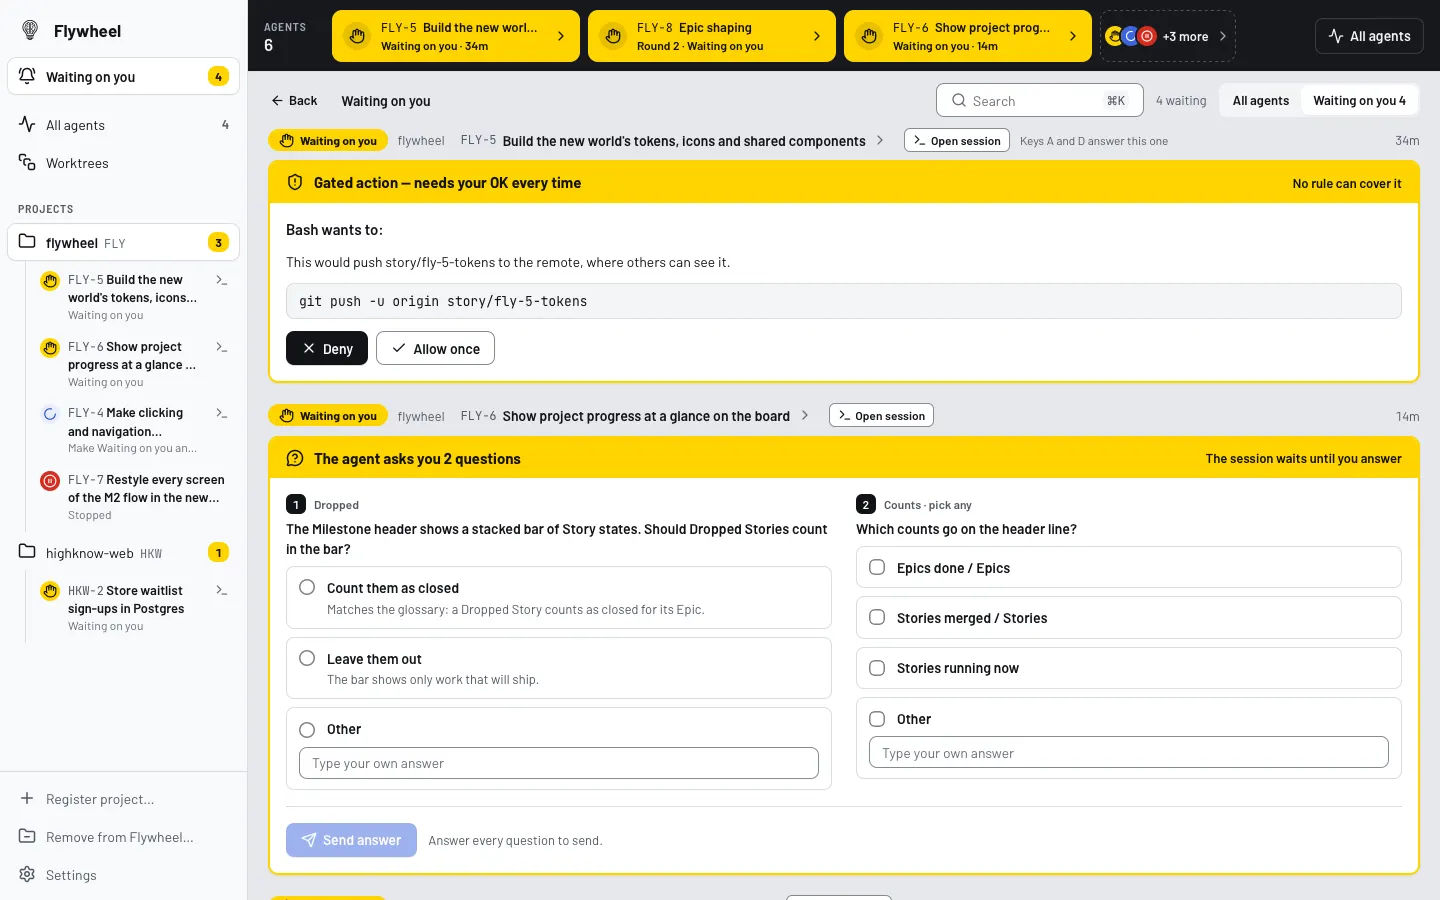
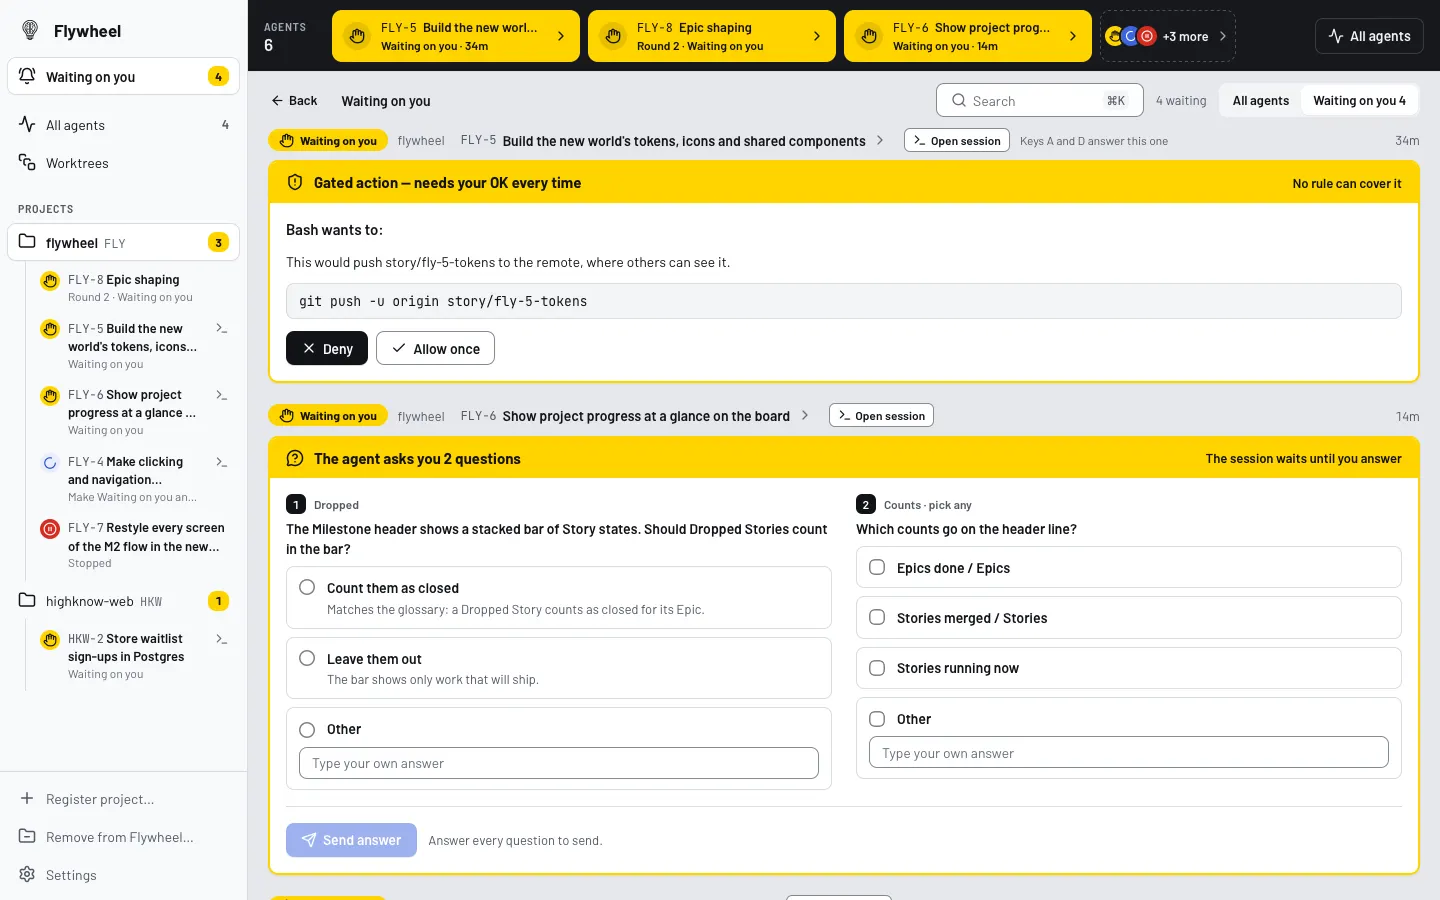
fix: the finish review's findings: a folded lit lamp opens Waiting on you, a waiting Round has its row under its project, and the shaping view's Epic card names the same attention as the board's

Changed region(s): [[0.0, 0.28, 0.1562, 0.7778]]

diff --git a/packages/desktop/src/projects/ProjectRail.tsx b/packages/desktop/src/projects/ProjectRail.tsx
@@ -30,7 +30,7 @@
 import { useState } from "react";
 import { useQuery, useQueryClient } from "@tanstack/react-query";
 import { Activity, BellRing, Folder, FolderMinus, Plus, Settings, SquareStack, Terminal, TriangleAlert } from "lucide-react";
-import { projectHide, storyGet, type FleetRowDto, type StoryDto } from "../adapters/tauri";
+import { projectHide, storyGet, type FleetRowDto, type StoryDto, type WaitingRoundDto } from "../adapters/tauri";
 import glyphUrl from "../assets/logo-glyph.svg";
 import type { Project } from "../board/useBoardQuery";
 import { useRecoverySummary } from "../board/useBoardQuery";
@@ -148,6 +148,7 @@ function RunningSessions({
   projectName,
   sessions,
   stopped,
+  rounds,
   currentStory,
 }: {
   projectId: string;
@@ -155,10 +156,14 @@ function RunningSessions({
   sessions: FleetRowDto[];
   /** This project's Stopped Stories (a Running Story with no live session), each by its newest session. */
   stopped: FleetRowDto[];
+  /** Issue #124: this project's shaping Rounds a live session is held on, so the badge and the rows agree. */
+  rounds: WaitingRoundDto[];
   currentStory: StoryDto | null;
 }) {
   const setActiveSessionId = useUiStore((state) => state.setActiveSessionId);
   const openStory = useUiStore((state) => state.openStory);
+  const openEpic = useUiStore((state) => state.openEpic);
+  const placeEpicId = useUiStore((state) => (state.activeSessionId ? null : state.currentEpicId));
   const activeSessionId = useUiStore((state) => state.activeSessionId);
   const placeStoryId = usePlaceStoryId();
   const extraStory =
@@ -168,9 +173,26 @@ function RunningSessions({
     !stopped.some((s) => s.storyId === currentStory.id)
       ? currentStory
       : null;
-  if (sessions.length === 0 && stopped.length === 0 && !extraStory) return null;
+  if (sessions.length === 0 && stopped.length === 0 && rounds.length === 0 && !extraStory) return null;
   return (
     <SidebarMenuSub role="list" aria-label={`${projectName} running sessions`} className="mx-0 ml-4 mr-0 gap-0.5 px-1.5 py-1">
+      {/* A shaping Round a live session is held on: Waiting on you, so it leads, and it opens its Epic. */}
+      {rounds.map((round) => {
+        const subject = `${round.epicKey} ${round.epicTitle}`.trim();
+        return (
+          <SidebarMenuSubItem key={round.roundId} className="flex">
+            <StoryRowButton
+              story={{ id: round.epicId, key: round.epicKey, title: round.epicTitle }}
+              detail={`Round ${round.roundNumber} · Waiting on you`}
+              tile={<StateBadge state="waiting_on_you" hideLabel className="size-5 justify-center p-0 [&>svg]:size-3.5" />}
+              here={round.epicId === placeEpicId}
+              ariaLabel={`Open Epic ${subject}, Round ${round.roundNumber} Waiting on you`}
+              title={`${subject}: Round ${round.roundNumber} waiting on you`}
+              onClick={() => openEpic(round.projectId, round.epicId)}
+            />
+          </SidebarMenuSubItem>
+        );
+      })}
       {extraStory && (
         <SidebarMenuSubItem className="flex">
           <StoryRowButton
@@ -510,6 +532,7 @@ export function ProjectRail({ projects, currentProjectId, onSelect }: ProjectRai
                       projectName={project.name}
                       sessions={liveSessions.filter((session) => session.projectId === project.id)}
                       stopped={stoppedRows.filter((row) => row.projectId === project.id)}
+                      rounds={waitingRounds.filter((round) => round.projectId === project.id)}
                       currentStory={currentStory}
                     />
                   </SidebarMenuItem>

diff --git a/packages/desktop/src/shaping/EpicShapingView.tsx b/packages/desktop/src/shaping/EpicShapingView.tsx
@@ -59,6 +59,14 @@ export function EpicShapingView({ projectId, projectName, epicId, onBack }: Epic
   const data = shapingQuery.data;
   const epic = data?.epic;
   const openStage = data?.stages.find((s) => s.state === "open") ?? data?.stages[data.stages.length - 1];
+  // Attention in place of the state word, as the board's Epic card shows it (issue #124): the core's
+  // `waitingOnYou`, or an open Round with no live shaping session.
+  const rounds = data?.rounds ?? [];
+  const attention = rounds.some((r) => r.waitingOnYou)
+    ? "waiting_on_you"
+    : rounds.some((r) => r.state === "open") && sessionQuery.isSuccess && !sessionQuery.data
+      ? "round_waiting"
+      : null;
 
   return (
     <div className="flex h-full min-h-0 flex-col">
@@ -89,7 +97,13 @@ export function EpicShapingView({ projectId, projectName, epicId, onBack }: Epic
               className="xl:col-start-2 xl:row-start-1"
             />
             <div className="min-w-0 self-stretch xl:col-start-1 xl:row-span-2 xl:row-start-1">
-              <EpicCard epic={epic} proposals={data.proposals ?? []} stage={openStage ? { kind: openStage.kind, rank: openStage.rank } : null} queryKey={queryKey} />
+              <EpicCard
+                epic={epic}
+                attention={attention}
+                proposals={data.proposals ?? []}
+                stage={openStage ? { kind: openStage.kind, rank: openStage.rank } : null}
+                queryKey={queryKey}
+              />
             </div>
             <RoundDock
               rounds={data.rounds}
@@ -114,11 +128,13 @@ function stageCount(kind: string) {
 
 function EpicCard({
   epic,
+  attention,
   proposals,
   stage,
   queryKey,
 }: {
   epic: EpicDto;
+  attention: string | null;
   /** The Epic's pending and rejected Proposals (issue #125), drawn on the field each would rewrite. */
   proposals: ProposalDto[];
   stage: { kind: string; rank: number } | null;
@@ -141,7 +157,7 @@ function EpicCard({
         <div className="flex min-w-0 items-center gap-2">
           <Layers aria-hidden="true" size={18} className="shrink-0 text-muted-foreground" />
           <span className="font-mono text-small text-muted-foreground">{epic.key}</span>
-          <StateBadge state={epic.state} className="h-5.5 text-meta" />
+          <StateBadge state={attention ?? epic.state} className="h-5.5 text-meta" />
         </div>
         <h1 id={headingId} className="m-0 text-title font-semibold break-words">
           {epic.title}

diff --git a/packages/desktop/src/projects/__tests__/project-rail.test.tsx b/packages/desktop/src/projects/__tests__/project-rail.test.tsx
@@ -186,7 +186,9 @@ describe("ProjectRail's Waiting on you row (#57, docs/mvp-spec.md §4.1)", () =>
 
   it("counts a shaping Round a live session waits on beside the requests, in its project too (issue #124)", async () => {
     fleetBlockedQueueMock.mockResolvedValue([{ requestId: "r1", projectId: "proj-1" }]);
-    fleetWaitingRoundsMock.mockResolvedValue([{ roundId: "round-1", projectId: "proj-2" }]);
+    fleetWaitingRoundsMock.mockResolvedValue([
+      { roundId: "round-1", roundNumber: 2, projectId: "proj-2", epicId: "e-8", epicKey: "OTH-8", epicTitle: "Epic shaping" },
+    ]);
     renderWithClient(
       <ProjectRail
         projects={[project({}), project({ id: "proj-2", name: "Other", keyPrefix: "OTH" })]}
@@ -197,6 +199,9 @@ describe("ProjectRail's Waiting on you row (#57, docs/mvp-spec.md §4.1)", () =>
     const row = await screen.findByRole("button", { name: "Open Waiting on you, 2 waiting" });
     expect(row.querySelector('[data-count="waiting"]')).toHaveTextContent("2");
     expect(await screen.findByTitle("1 waiting on you in Other")).toHaveTextContent("1");
+    // The badge and the rows under the project agree: the Round has its row, which opens its Epic.
+    fireEvent.click(await screen.findByRole("button", { name: "Open Epic OTH-8 Epic shaping, Round 2 Waiting on you" }));
+    expect(useUiStore.getState().currentEpicId).toBe("e-8");
   });
 
   it("shows no figure at all when nothing is waiting", async () => {

diff --git a/packages/desktop/src/shell/AndonStrip.tsx b/packages/desktop/src/shell/AndonStrip.tsx
@@ -295,8 +295,12 @@ export function AndonStrip() {
               <div role="listitem" className="shrink-0">
                 <button
                   type="button"
-                  aria-label={`${hidden} more: ${hiddenTones.map((tone) => TONE_WORD[tone]).join(", ")}. Open All agents`}
-                  onClick={() => setFleetSurface({ view: "fleet" })}
+                  // A folded yellow lamp (a Story session's or a shaping Round's) is found in Waiting on you, which
+                  // lists both; All agents lists no shaping Round.
+                  aria-label={`${hidden} more: ${hiddenTones.map((tone) => TONE_WORD[tone]).join(", ")}. Open ${
+                    hiddenTones.includes("waiting") ? "Waiting on you" : "All agents"
+                  }`}
+                  onClick={() => setFleetSurface({ view: hiddenTones.includes("waiting") ? "queue" : "fleet" })}
                   style={{ width: MORE_WIDTH }}
                   className="flex h-13 items-center justify-center gap-1.5 rounded-lg border border-dashed whitespace-nowrap border-white/25 text-small font-semibold text-strip-foreground transition-colors duration-(--duration-state) ease-(--ease) hover:bg-white/10 focus-visible:outline-strip-foreground"
                 >

diff --git a/packages/desktop/src/shell/__tests__/andon-strip.test.tsx b/packages/desktop/src/shell/__tests__/andon-strip.test.tsx
@@ -155,6 +155,18 @@ describe("AndonStrip", () => {
     expect(useUiStore.getState().activeSessionId).toBeNull();
   });
 
+  it("folds a waiting lamp into +n more, which then opens Waiting on you (issue #124)", async () => {
+    fleetWaitingRounds.mockResolvedValue([ROUND]);
+    const many = Array.from({ length: 6 }, (_, i) =>
+      row({ sessionId: `r-${i}`, storyId: `s-${i}`, storyKey: `FLY-${20 + i}`, storyTitle: `Running ${i}` }),
+    );
+    fleetList.mockResolvedValue({ rows: many, totalRows: many.length, visibleCostUsd: null });
+    renderStrip();
+    // jsdom has no layout: every lamp is shown, so check the rule on the pure order instead.
+    await screen.findByRole("button", { name: /Open Epic FLY-8/ });
+    expect(stripLamps(many, [ROUND])[0].kind).toBe("round");
+  });
+
   it("keeps its height and says so when no agent is running", async () => {
     fleetList.mockResolvedValue({ rows: [DONE], totalRows: 1, visibleCostUsd: null });
     renderStrip();

diff --git a/packages/desktop/src/shaping/__tests__/round-dock.test.tsx b/packages/desktop/src/shaping/__tests__/round-dock.test.tsx
@@ -238,6 +238,8 @@ describe("a Round whose session died (issue #124)", () => {
     expect(within(dock).queryByText("Waiting on you")).toBeNull();
     expect(within(dock).getByText("1 of 3 answered")).toBeTruthy();
     expect(within(await card(1)).getByText("Only the developer")).toBeTruthy();
+    // The Epic card names the same state as the board's (issue #124).
+    expect(await screen.findByText("Shaping Round waiting")).toBeTruthy();
 
     fireEvent.click(within(await card(2)).getByRole("button", { name: "Accept the recommended answer to question 2" }));
     await waitFor(() => expect(roundAccept).toHaveBeenCalledWith("q2"));

diff --git a/packages/desktop/src/test/critique/m2-flow.critique.browser.test.tsx b/packages/desktop/src/test/critique/m2-flow.critique.browser.test.tsx
@@ -153,7 +153,7 @@ describe.runIf(Boolean(SCHEME))("M2 flow screens", () => {
 
   it("13 Waiting on you queue", async () => {
     await boardReady();
-    await click(/Open Waiting on you/);
+    await click(/^Open Waiting on you/);
     await settle(900);
     await shot("13-waiting-on-you-queue");
   });

diff --git a/DESIGN.md b/DESIGN.md
@@ -366,7 +366,7 @@ The live agent on a Story (`board/StoryView.tsx`), under its title card while a 
 The project's Roadmap at the top of the board (`board/RoadmapStrip.tsx`, #131): one card headed "Roadmap" with the Milestone count and an outline "+ Milestone", then one 36px row per Milestone in Roadmap order. A row is a move handle (`grip-vertical`, subtle ink), the name at row size (semibold; regular in secondary ink once Done or Dropped), the state pill at meta size, the Exit test on one line in secondary ink ("Exit test not written yet" in meta ink), a `flag` and "Current" on the Current Milestone, and the trailing chevron. The columns are fixed so every row lines up. Clicking a row picks that Milestone for the header and roster below; the picked row takes the running tint across its whole width and a running-ink chevron. A Done or Dropped Milestone has no handle and does not drag: it keeps its place. A row drags natively; while it does, it fades to half and a 2px ring-coloured line marks where it lands (above the target when moving up, below when moving down). The keyboard moves it with the arrow keys on its handle or Alt and an arrow on the row, keeps the focus on the handle, and announces the new position. "+ Milestone" opens an inline one-line field at the foot of the card (Add Milestone filled, Cancel ghost, Escape closes), never a dialog.
 
 ### Round Dock
-The Epic's shaping view (`shaping/EpicShapingView.tsx`, #123) is the Epic card beside the dock: from 1280px side by side (card 5 parts, dock 7), below that stacked in reading order: the current Round, the Epic card, then the earlier Rounds (a Sheet, as direction.md first planned, would hide the Epic being shaped behind the questions about it). The Epic card is a title card (`layers`, the key in code face, the state pill, the title at title size, then the Stage and "Stage n of 3" in secondary ink) over the four spec fields, each a meta-size label with a ghost Edit and its prose at a 68ch measure ("Not written yet" in meta ink); editing opens a textarea in place with Save (outline) and Cancel. The dock (`shaping/RoundDock.tsx`) is one card per Round, newest first. A Round the session is held on wears the request card's frame: the 2px attention edge and the yellow band (`hand`, "Round n", "Waiting on you"); any other Round has the inset band and a 1px edge. Under the note, a bar that stays on screen while the questions scroll carries the region's one filled action, Accept all recommended (`check-check`), the tabular "n of m answered" and a hint. Each open question (`shaping/QuestionCard.tsx`) reads: the ink number chip inline before the question at row size (the title is kept for the folded line, never set above the question as an eyebrow), the grounding line in meta ink behind `file-text`, then the recommended answer already filled in, a running-tint box with a 1px primary edge, "Recommended" in running ink behind a check, the answer semibold and its "Because" line in secondary ink; then Accept (outline) and Answer differently (ghost), which opens a textarea on the recommendation, with the recommendation and its reason kept above it in running ink, Send answer, Cancel and a ⌘↩ hint. A Round outlives its session (#124): an open Round no live session is held on keeps the inset band, never yellow, and the dock still takes every answer; the band reads "No live session: your answers are kept" with Continue shaping (outline) at its end, or, while a fresh session reads the Rounds before its `round_wait` takes this one over, "The agent is reading your answers and picks this Round up". The shaping view's header then carries no control of its own: the band does. On the board the Epic card's state pill reads Waiting on you (attention) while a live session is held on a Round, and Shaping Round waiting (neutral, `circle-dashed`) while a Round is open with no live session. An answered question folds to one 44px line: a check, a quiet number chip, the title, the answer in secondary ink, whose answer it was ("Recommended" or "Your answer") in meta ink, and Change (ghost) while the Round is open.
+The Epic's shaping view (`shaping/EpicShapingView.tsx`, #123) is the Epic card beside the dock: from 1280px side by side (card 5 parts, dock 7), below that stacked in reading order: the current Round, the Epic card, then the earlier Rounds (a Sheet, as direction.md first planned, would hide the Epic being shaped behind the questions about it). The Epic card is a title card (`layers`, the key in code face, the state pill, the title at title size, then the Stage and "Stage n of 3" in secondary ink) over the four spec fields, each a meta-size label with a ghost Edit and its prose at a 68ch measure ("Not written yet" in meta ink); editing opens a textarea in place with Save (outline) and Cancel. The dock (`shaping/RoundDock.tsx`) is one card per Round, newest first. A Round the session is held on wears the request card's frame: the 2px attention edge and the yellow band (`hand`, "Round n", "Waiting on you"); any other Round has the inset band and a 1px edge. Under the note, a bar that stays on screen while the questions scroll carries the region's one filled action, Accept all recommended (`check-check`), the tabular "n of m answered" and a hint. Each open question (`shaping/QuestionCard.tsx`) reads: the ink number chip inline before the question at row size (the title is kept for the folded line, never set above the question as an eyebrow), the grounding line in meta ink behind `file-text`, then the recommended answer already filled in, a running-tint box with a 1px primary edge, "Recommended" in running ink behind a check, the answer semibold and its "Because" line in secondary ink; then Accept (outline) and Answer differently (ghost), which opens a textarea on the recommendation, with the recommendation and its reason kept above it in running ink, Send answer, Cancel and a ⌘↩ hint. A Round outlives its session (#124): an open Round no live session is held on keeps the inset band, never yellow, and the dock still takes every answer; the band reads "No live session: your answers are kept" with Continue shaping (outline) at its end, or, while a fresh session reads the Rounds before its `round_wait` takes this one over, "The agent is reading your answers and picks this Round up". The shaping view's header then carries no control of its own: the band does, and its Epic card's pill names the same attention as the board's. On the board the Epic card's state pill reads Waiting on you (attention) while a live session is held on a Round, and Shaping Round waiting (neutral, `circle-dashed`) while a Round is open with no live session. An answered question folds to one 44px line: a check, a quiet number chip, the title, the answer in secondary ink, whose answer it was ("Recommended" or "Your answer") in meta ink, and Change (ghost) while the Round is open.
 
 A spec change an agent proposes (`shaping/GhostCard.tsx`, #125) is a ghost of the field it would rewrite, drawn under that field's text on the Epic card, never in an inbox: a 1px dashed primary edge on the running tint (the recommended answer's solid edge, made provisional), "Proposed Scope" in running ink behind `circle-dashed`, the agent's whole new text at the field's 68ch measure, its "Why:" line in secondary ink, then Accept (outline), Amend (ghost) and Reject (ghost). Amend opens a textarea on the proposed text with Accept edit (outline), Cancel and a ⌘↩ hint: editing and accepting are one act. Reject opens a one-line "Why not? (optional)" field beside Reject (outline) and Cancel. A rejected spec change is decided, so it loses the dashed edge and shrinks to two plain lines with no ground: `ban`, "Rejected" and the text struck through in secondary ink, then "Your reason: …" in meta ink. Reject always wears `ban`; `x` only ever means Cancel. Amend keeps the agent's "Why:" line above the textarea, and Cancel returns the focus to the button that opened the mode; once decided, the focus lands on the field's Edit. No blue fill and no yellow: a pending Proposal never holds the agent, so it is never Waiting on you.
 
@@ -376,7 +376,7 @@ A tool call is one line (`session/FeedRow.tsx`, worded by `session/toolVerbs.ts`
 ### Navigation
 - **Sidebar:** the `sidebar` ground behind a right edge; the current project or Story is a raised `sidebar-primary` card, hover is `sidebar-accent`; group names in the condensed label; session sub-items indent behind a 1px rule.
 - **Breadcrumb:** names the project, then the Story, then the session; every crumb but the last goes to its place.
-- **Andon strip:** one lamp per live Story session across the top of every screen, in every project: lit yellow (lamp-black ink, the hand) while it is Waiting on you, graphite with a blue bulb while its agent works, graphite with a red bulb while its Story is Stopped. Each lamp names the Story key and title and, below, what it waits on, what it is doing or why it stopped. A shaping session held on a Round lights a lamp of its own among the waiting ones (#124): the Epic's key and title, "Round n · Waiting on you", and a click opens the Epic's shaping view; the same Round counts in the sidebar's Waiting on you and is listed in its queue, after the requests, in the request card's frame with Answer. Order: Waiting on you (longest first), Running, Stopped. Lamps that do not fit fold into a dashed "+n more" lamp that opens All agents; with none, the strip says "No agent running" and keeps its height. Clicking a lamp opens its Story, never its session; the current Story's lamp carries the strip-ink outline.
+- **Andon strip:** one lamp per live Story session across the top of every screen, in every project: lit yellow (lamp-black ink, the hand) while it is Waiting on you, graphite with a blue bulb while its agent works, graphite with a red bulb while its Story is Stopped. Each lamp names the Story key and title and, below, what it waits on, what it is doing or why it stopped. A shaping session held on a Round lights a lamp of its own among the waiting ones (#124): the Epic's key and title, "Round n · Waiting on you", and a click opens the Epic's shaping view; the same Round counts in the sidebar's Waiting on you and its project's figure, has its own row under the project (the hand, the Epic, "Round n · Waiting on you", opening the Epic), and is listed in the queue, after the requests, in the request card's frame with Answer. Order: Waiting on you (longest first), Running, Stopped. Lamps that do not fit fold into a dashed "+n more" lamp that opens All agents, or Waiting on you when a folded lamp is lit; with none, the strip says "No agent running" and keeps its height. Clicking a lamp opens its Story, never its session; the current Story's lamp carries the strip-ink outline.
 
 ### Icons
 Lucide (`lucide-react`, ISC), drawn at a 2px stroke: 16px by default, 15px inside pills, 18px in navigation. Every icon sits next to its word and is decorative; an icon alone needs a tooltip and an accessible label. Glyphs are imported by name, never the whole set.
